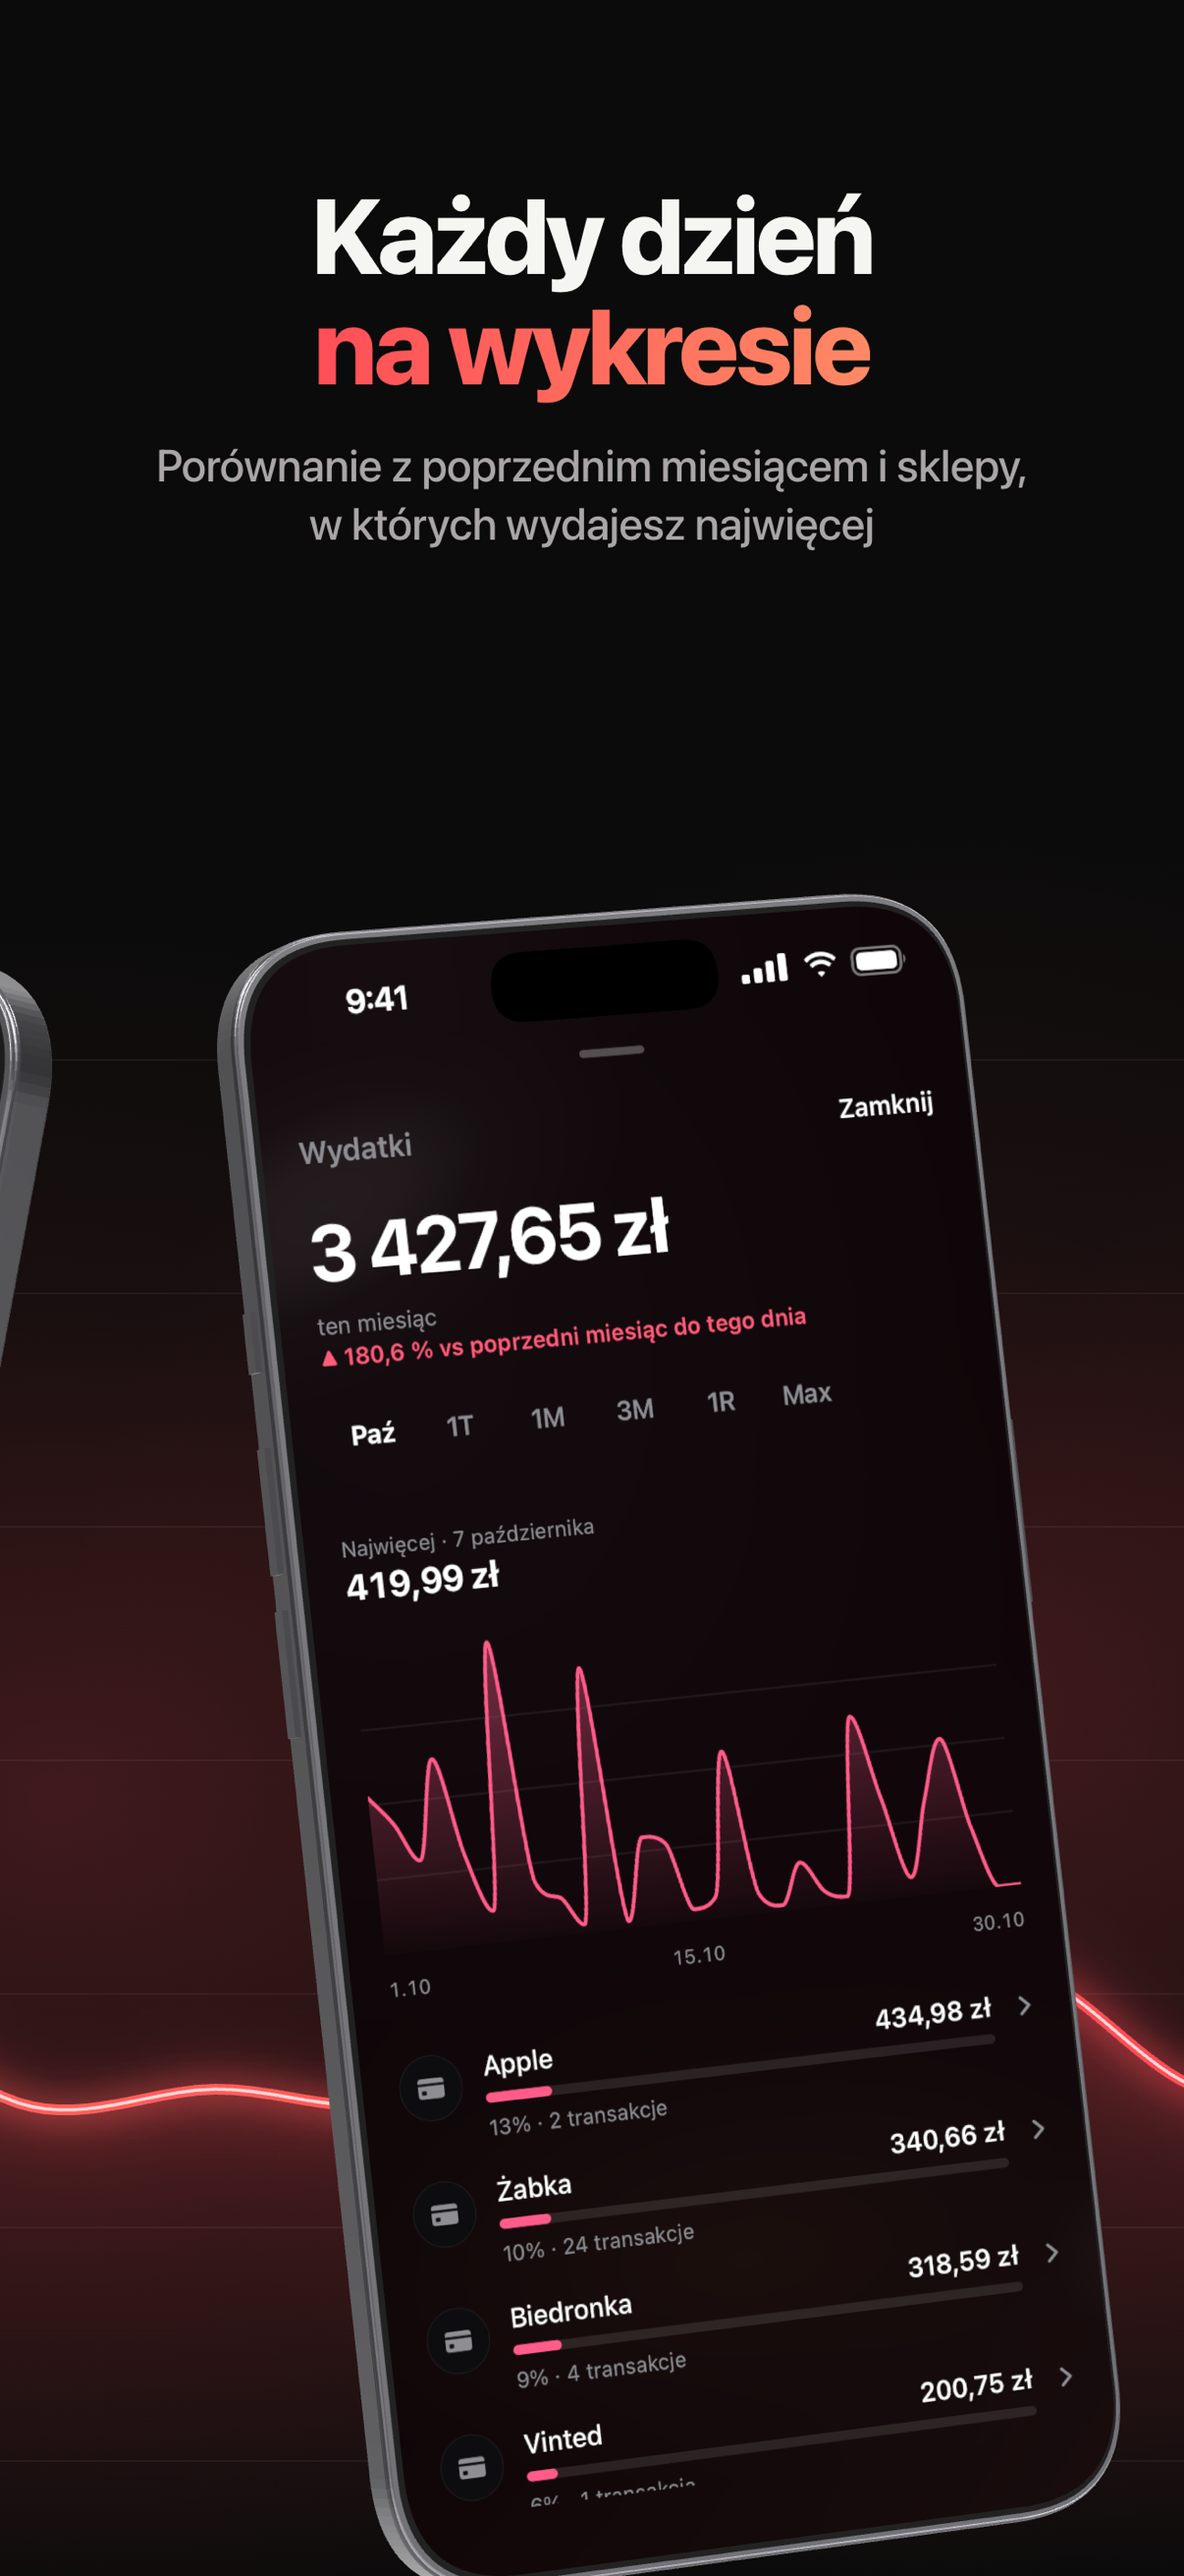
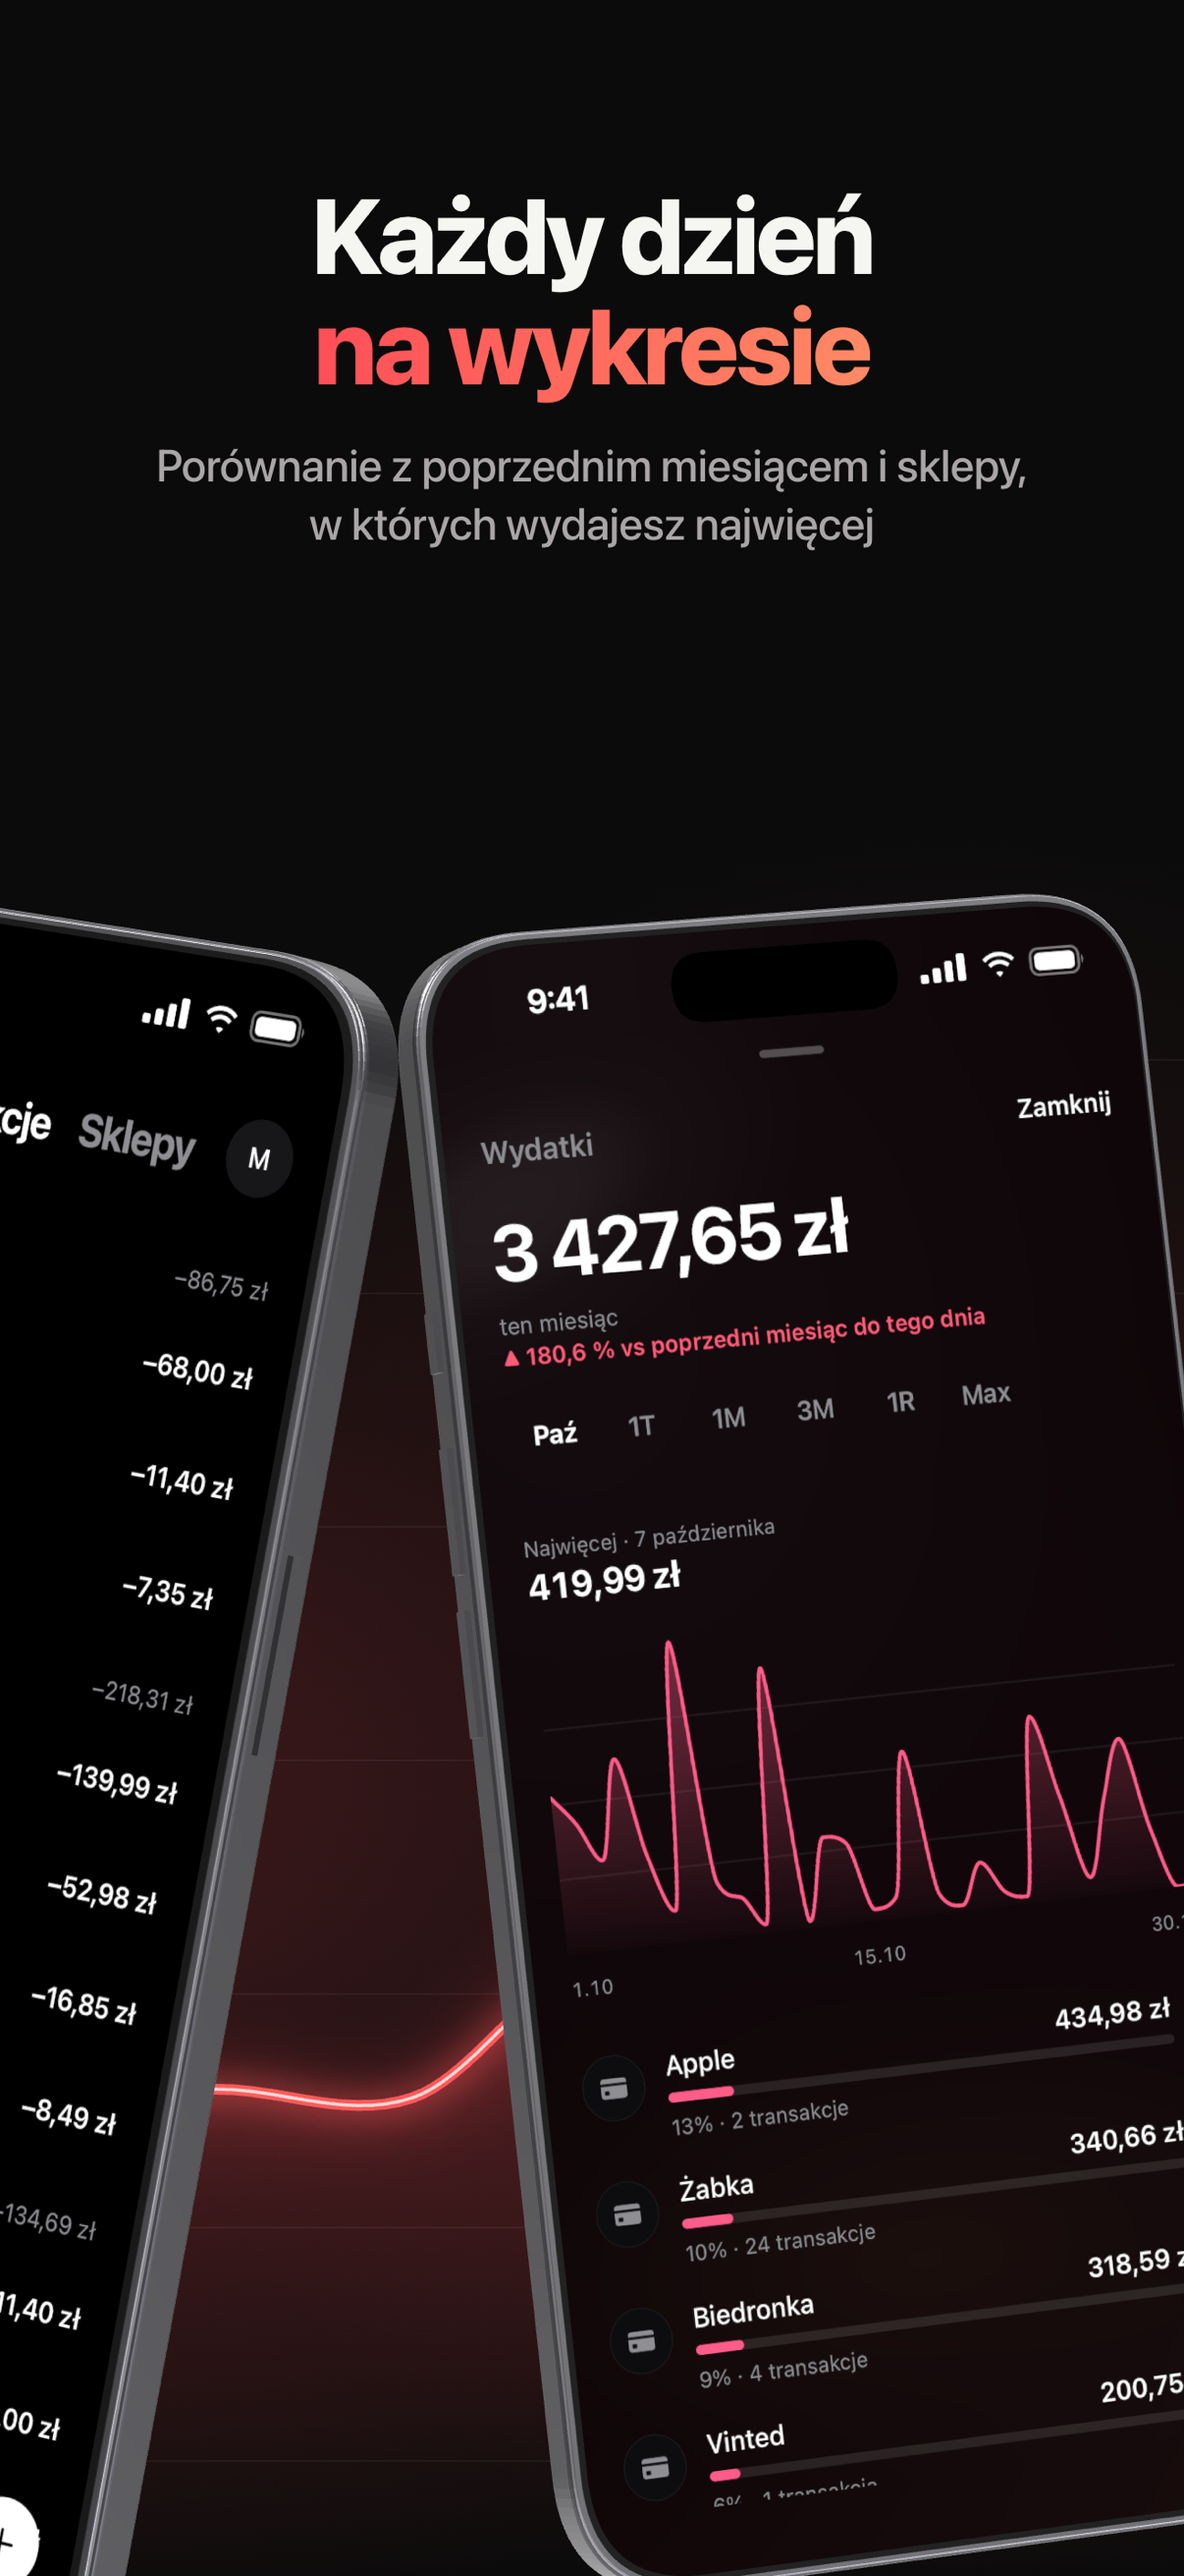
Revert "docs: let only the phone corners cross between App Store screenshots"
This reverts commit f25e4b83025bd83759d3824e8f9f56c41d30afc6.

Changed region(s): [[0.0, 0.3398, 1.0, 1.0], [0.4909, 0.4016, 0.5216, 0.4325]]

diff --git a/app-store/screenshots/index.html b/app-store/screenshots/index.html
@@ -250,9 +250,9 @@
   const copyTops = { overview: 170, transactions: 200, spending: 200, report: 170, limits: 200, privacy: 260 };
 
   const phones = [
-    { image: 'overview.png', x: 790, y: 1980, height: 2150, rotation: { x: -0.16, y: 0.52, z: 0.24 } },
-    { image: 'transactions.png', x: 2160, y: 1990, height: 1950, rotation: { x: -0.12, y: -0.46, z: -0.2 } },
-    { image: 'spending.png', x: 3380, y: 1930, height: 1820, rotation: { x: -0.1, y: 0.36, z: 0.12 } },
+    { image: 'overview.png', x: 1300, y: 1980, height: 2150, rotation: { x: -0.16, y: 0.52, z: 0.24 } },
+    { image: 'transactions.png', x: 2540, y: 1990, height: 1950, rotation: { x: -0.12, y: -0.46, z: -0.2 } },
+    { image: 'spending.png', x: 3580, y: 1930, height: 1820, rotation: { x: -0.1, y: 0.36, z: 0.12 } },
     { image: 'monthly-report.png', x: 4620, y: 1900, height: 1880, rotation: { x: -0.06, y: 0.16, z: 0 } },
     { image: 'shop-details.png', x: 5940, y: 1900, height: 1880, rotation: { x: -0.06, y: -0.16, z: 0 } },
   ];
